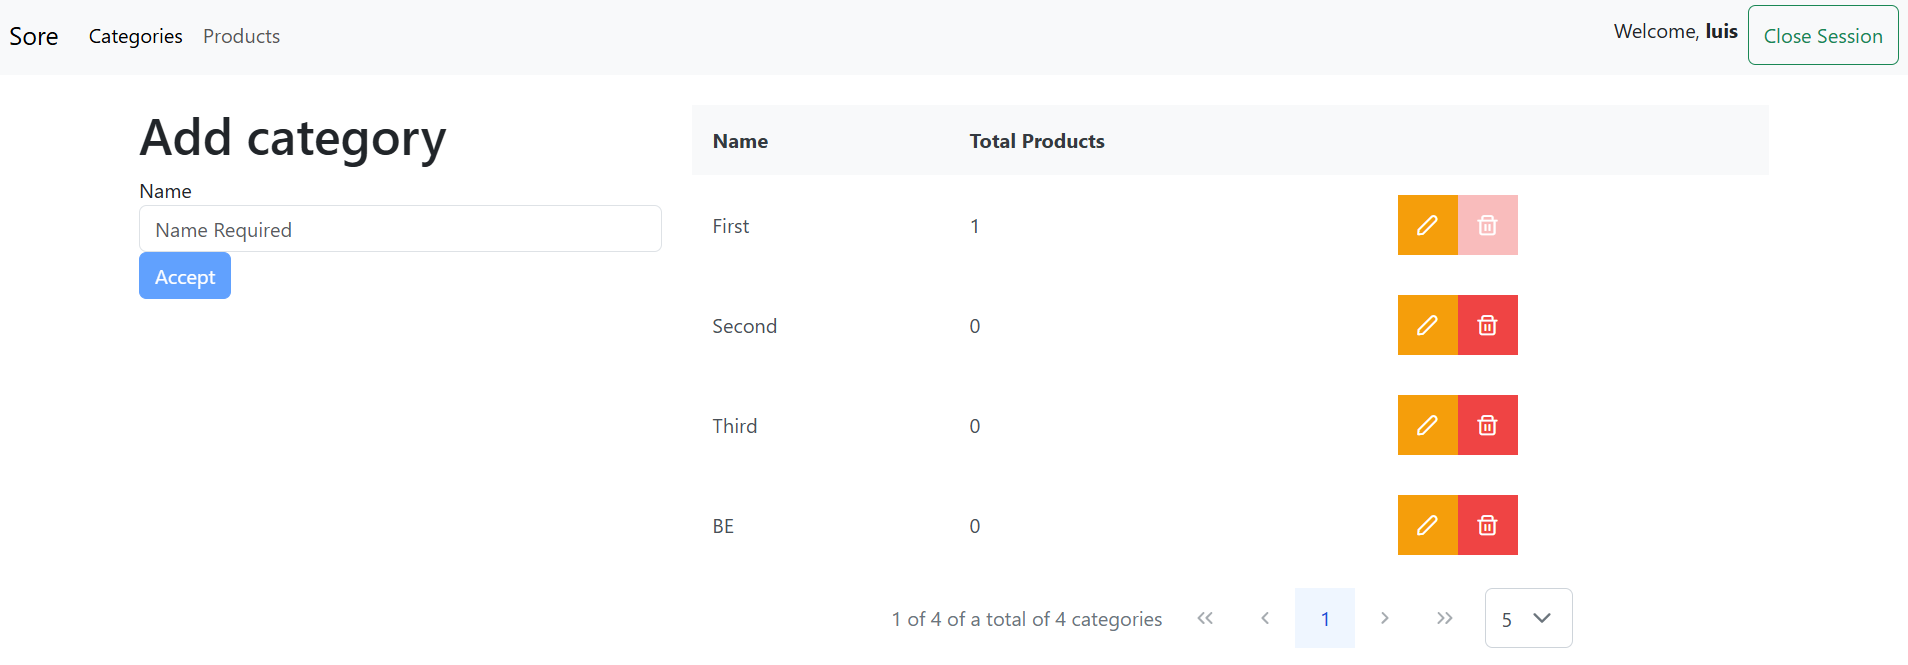
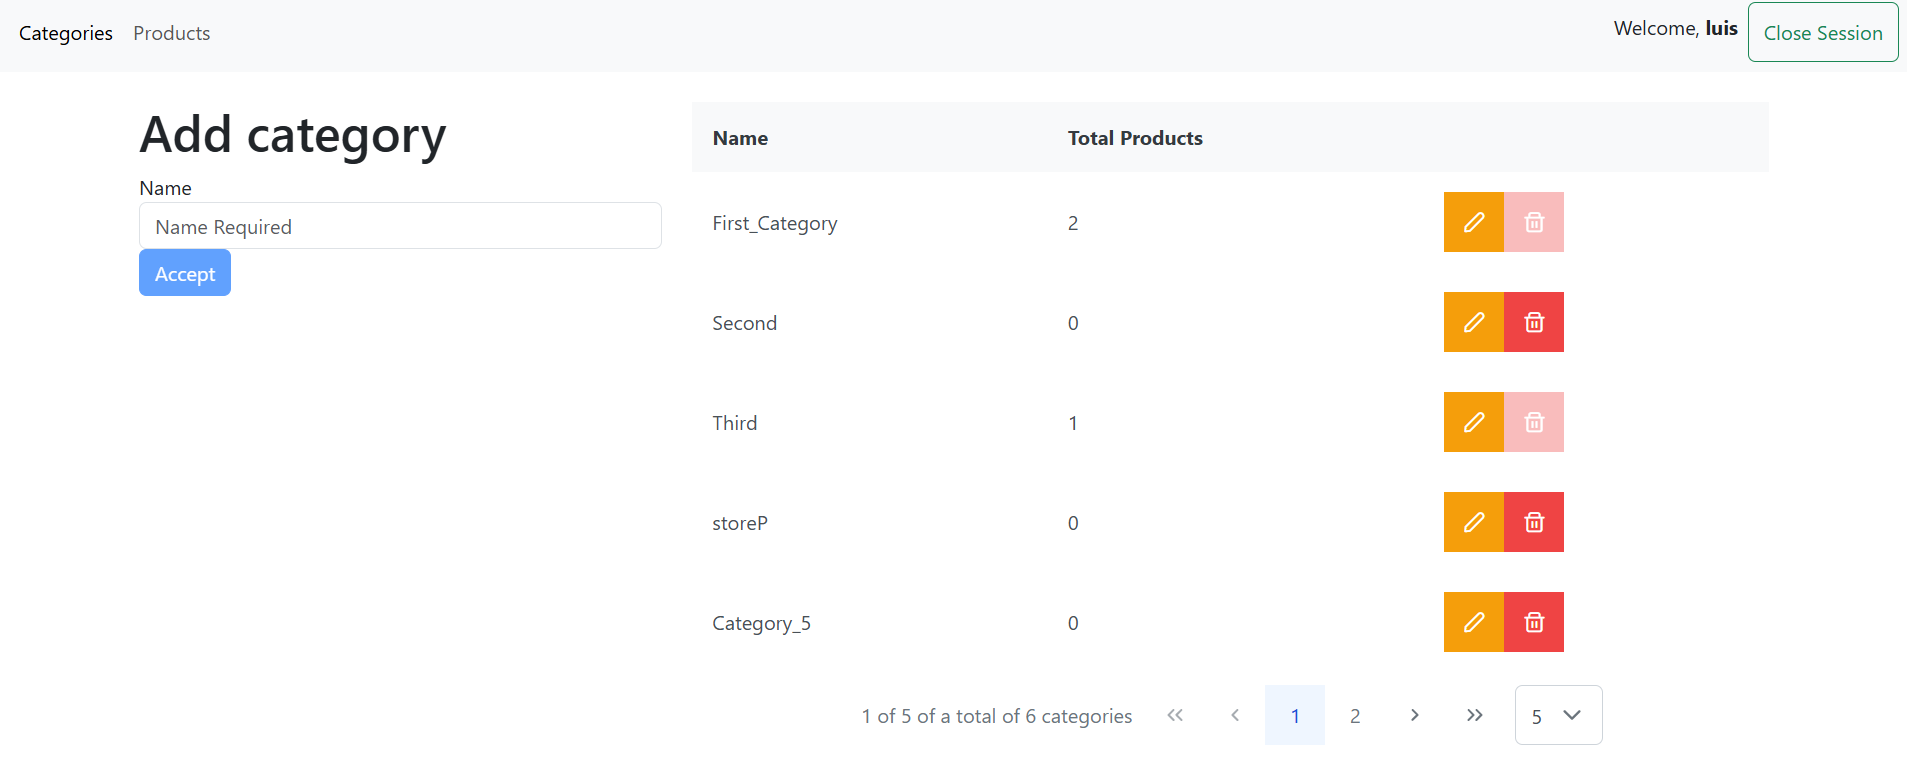
27.02.2025_FINAL

diff --git a/src/app/store/store.service.ts b/src/app/store/store.service.ts
@@ -63,7 +63,6 @@ export class StoreService {
   }
 
   updateProduct(product: IProduct): Observable<IProduct> {
-    console.log("Sending PUT request for product ID:", product.idProduct); 
     const formData = new FormData();
     formData.append('idProduct', product.idProduct.toString());
     formData.append('productName', product.productName);
@@ -73,7 +72,6 @@ export class StoreService {
     if (product.photo) {
       formData.append('photo', product.photo);
     }
-
     return this.http.put<IProduct>(`${this.urlAPI}products/${product.idProduct}`, formData, { headers: this.getHeaders() });
   }
 

diff --git a/src/app/store/categories/categories.component.ts b/src/app/store/categories/categories.component.ts
@@ -110,7 +110,7 @@ export class CategoriesComponent implements OnInit {
     if (err.error && typeof err.error === 'object' && err.error.message) {
       this.errorMessage = err.error.message;
     } else if (typeof err.error === 'string') {
-      // Si `err.error` is a string, it is assumed to be the error message
+      // If `err.error` is a string, it is assumed to be the error message
       this.errorMessage = err.error;
     } else {
       // Handles the case where no useful error message is received

diff --git a/src/app/shared/navbar/navbar.component.html b/src/app/shared/navbar/navbar.component.html
@@ -1,6 +1,5 @@
 <nav class="navbar navbar-expand-lg navbar-light bg-light">
   <div class="container-fluid">
-    <a class="navbar-brand" routerLink="categories">Store</a>
     <button class="navbar-toggler" type="button" data-bs-toggle="collapse" data-bs-target="#navbarSupportedContent"
       aria-controls="navbarSupportedContent" aria-expanded="false" aria-label="Toggle navigation">
       <span class="navbar-toggler-icon"></span>

diff --git a/src/app/start/login/login.component.html b/src/app/start/login/login.component.html
@@ -16,7 +16,7 @@
     <button class="btn btn-primary" type="submit" [hidden]="!fLogin.valid">Login</button>
     <button class="btn btn-primary" type="submit" [hidden]="fLogin.valid" [disabled]="!fLogin.valid"
       style="cursor:not-allowed">Login</button>
-    <p class="mt-5 mb-3 text-muted">Curso Angular 2024</p>
+    <p class="mt-5 mb-3 text-muted">LuismNet 2025</p>
   </form>
   <p-toast></p-toast>
 </div>

diff --git a/src/app/shared/navbar/navbar.component.ts b/src/app/shared/navbar/navbar.component.ts
@@ -16,7 +16,7 @@ export class NavbarComponent {
   }
 
   closeSession() {
-    localStorage.removeItem('user');
+    sessionStorage.removeItem('user');
     this.router.navigateByUrl('/login');
   }
 }

diff --git a/README.md b/README.md
@@ -4,6 +4,14 @@ This project was generated with [Angular CLI](https://github.com/angular/angular
 ![AngularStore](img/1.png)
 ![AngularStore](img/2.png)
 
+
+## environment
+
+```
+export const environment = {urlAPI: 'https://localhost:7177/api/'};
+export const environment = {urlAPI: 'https://localhost:44342/api/'};
+```
+
 ## Development server
 
 Run `ng serve` for a dev server. Navigate to `http://localhost:4200/`. The application will automatically reload if you change any of the source files.
